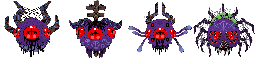
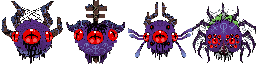
added mini boss and witness customization and adjusted static assets of mini bosses and witnesses

diff --git a/src/components/characters/CharacterNavigation.svelte b/src/components/characters/CharacterNavigation.svelte
@@ -1,6 +1,6 @@
 <script lang="ts" module>
     import { FOLLOWER_IDS, type FollowerId, PLAYER_CREATURE_IDS, PLAYER_FLEECE_IDS, type PlayerCreatureId, type PlayerFleeceId } from "../../data/types";
-    import { bishopData, followerData } from "../../data";
+    import { bishopData, followerData, miniBossData } from "../../data";
 
     const FOLLOWER_STARTING_NAMES: string[] = ["Ja", "Jul", "Na", "No", "Gre", "Bre", "Tre", "Mer", "Ty", "Ar", "An", "Yar", "Fe", "Fi", "The", "Thor", "Al", "Ha", "He", "Joo", "Ma", "Me", "Pa", "Pu"];
     const FOLLOWER_MIDDLE_NAMES: string[] = ["na"].concat(...FOLLOWER_STARTING_NAMES.slice(1, 11).map((name) => name.toLowerCase()));
@@ -73,10 +73,11 @@
     import { twMerge } from "tailwind-merge";
 
     import { BannerButton, Dropdown, Header, Label, LabelTitle, NumberInput, Slider, Toggle } from "../base";
+    import { BISHOP_MENU_NAME, MINI_BOSS_MENU_NAME, TOWW_MENU_NAME, WITNESS_MENU_NAME } from "./menus";
     import { MultiList } from "../utils";
 
     import { Actor, Factory, type ActorObject } from "../../scripts";
-    import { isBishopObj, isFollowerObj, isPlayerObj, isTOWW_Obj } from "../../scripts/characters";
+    import { isBishopObj, isFollowerObj, isMiniBossObj, isPlayerObj, isTOWW_Obj, isWitnessObj } from "../../scripts/characters";
 
     import { forbiddenAnimations } from "../../data";
     import { Random, Vector, type VectorObject } from "../../utils";
@@ -255,9 +256,13 @@
                     
                     <BannerButton label="Randomize" src="/static/ui/dice-6.png" onclick={randomizeAppearance} />
                 {:else if isBishopObj(obj)}
-                    <BannerButton label="Choose Bishop" onclick={() => proceed("bishop")} />
+                    <BannerButton label="Choose Bishop" onclick={() => proceed(BISHOP_MENU_NAME)} />
                 {:else if isTOWW_Obj(obj)}
-                    <BannerButton label="Choose Form" onclick={() => proceed("toww")} />
+                    <BannerButton label="Choose Form" onclick={() => proceed(TOWW_MENU_NAME)} />
+                {:else if isMiniBossObj(obj)}
+                    <BannerButton label="Choose Boss" onclick={() => proceed(MINI_BOSS_MENU_NAME)} />
+                {:else if isWitnessObj(obj)}
+                    <BannerButton label="Choose Witness" onclick={() => proceed(WITNESS_MENU_NAME)} />
                 {/if}
             {:else if i === 2}
                 <div class="flex flex-col gap-6 pt-6 pb-8" tabindex="-1">
@@ -311,6 +316,38 @@
                                         <Toggle label="Is Injured?" bind:enabled={obj.isInjured!} oninput={(isInjured) => actor.isInjured = isInjured} />
                                     </Label>
                                 {/if}
+                            </div>
+                        </div>
+                    {:else if isMiniBossObj(obj) && isMiniBossObj(actor)}
+                        <!-- svelte-ignore a11y_no_noninteractive_tabindex -->
+                        <div class="flex flex-col items-center gap-6" tabindex="0">
+                            <LabelTitle title="Attributes" />
+                        
+                            <div class="flex flex-col gap-8 items-center mx-8 w-80 sm:w-90">
+                                <Label label="Is Upgraded?">
+                                    <Toggle label="Is Upgraded?" bind:enabled={obj.isUpgraded} oninput={(isUpgraded) => actor.isUpgraded = isUpgraded} />
+                                </Label>
+
+                                {#if ["backSkins", "backUpgradedSkins"].every((key) => key in miniBossData[obj.miniBoss])}
+                                    <Label label="Is Facing the Back?">
+                                        <Toggle label="Is Facing the Back?" bind:enabled={obj.isBackFacing!} oninput={(isBackFacing) => actor.isBackFacing = isBackFacing} />
+                                    </Label>
+                                {/if}
+                            </div>
+                        </div>
+                    {:else if isWitnessObj(obj) && isWitnessObj(actor)}
+                        <!-- svelte-ignore a11y_no_noninteractive_tabindex -->
+                        <div class="flex flex-col items-center gap-6" tabindex="0">
+                            <LabelTitle title="Attributes" />
+                        
+                            <div class="flex flex-col gap-8 items-center mx-8 w-80 sm:w-90">
+                                <Label label="Is Upgraded?">
+                                    <Toggle label="Is Upgraded?" bind:enabled={obj.isUpgraded} oninput={(isUpgraded) => actor.isUpgraded = isUpgraded} />
+                                </Label>
+
+                                <Label label="Is Purged?">
+                                    <Toggle label="Is Purged?" bind:enabled={obj.isPurged} oninput={(isPurged) => actor.isPurged = isPurged} />
+                                </Label>
                             </div>
                         </div>
                     {/if}

diff --git a/src/App.svelte b/src/App.svelte
@@ -7,14 +7,14 @@
     import { SceneCanvas, Categories, LoadingThrobber, LoadingSymbol } from "./components/misc";
     import { List } from "./components/utils";
     
-    import { CharacterList, FollowerMenus, PlayerMenus, getRandomFollowerAppearance, getSpecialFollowerName, CharacterNavigation, isStrFollowerMenuName, isStrPlayerMenuName, BishopMenus, BISHOP_MENU_NAME, TOWW_MENU_NAME, TOWW_Menus } from "./components/characters";
+    import { CharacterList, FollowerMenus, PlayerMenus, getRandomFollowerAppearance, getSpecialFollowerName, CharacterNavigation, isStrFollowerMenuName, isStrPlayerMenuName, BishopMenus, BISHOP_MENU_NAME, TOWW_MENU_NAME, TOWW_Menus, MINI_BOSS_MENU_NAME, MiniBossMenu, WITNESS_MENU_NAME, WitnessMenu } from "./components/characters";
     import { Size, Timing } from "./components/exporting";
 
     import { News } from "./components/news";
     import { CreationDetails, SpecialThanks } from "./components/credits";
 
     import { Actor, Exporter, Factory, Scene, type ActorObject } from "./scripts";
-    import { Follower, isFollowerObj, isPlayerObj, TOWW, Player, Bishop, isBishopObj, isTOWW_Obj, MiniBoss, Witness } from "./scripts/characters";
+    import { Follower, isFollowerObj, isPlayerObj, TOWW, Player, Bishop, isBishopObj, isTOWW_Obj, MiniBoss, Witness, isMiniBossObj, isWitnessObj } from "./scripts/characters";
     import { GitManager } from "./scripts/managers";
 
     import { bishopData, miniBossData, towwData, witnessData } from "./data";
@@ -272,6 +272,10 @@
 
     function cloneActor(actor: Actor) {
         const clonedActor = actor.clone();
+
+        const { animation } = actor;
+        clonedActor.setAnimation(animation);
+
         addRawActor(clonedActor);
     }
     
@@ -410,6 +414,10 @@
                             <BishopMenus class="no-scrollbar lg:overflow-y-auto lg:pt-12 lg:pb-8 lg:w-160 lg:h-[calc(100%_-_68px)]" obj={actorObj} {factory} enableKeyInput={actorIdx >= 0 && showActorMenu} onupdate={updateSceneFromChanges} onchange={swapActor} />
                         {:else if isTOWW_Obj(actorObj) && actorMenu === TOWW_MENU_NAME}
                             <TOWW_Menus class="no-scrollbar lg:overflow-y-auto lg:pt-12 lg:pb-8 lg:w-160 lg:h-[calc(100%_-_68px)]" obj={actorObj} {factory} enableKeyInput={actorIdx >= 0 && showActorMenu} onupdate={updateSceneFromChanges} onchange={swapActor} />
+                        {:else if isMiniBossObj(actorObj) && actorMenu === MINI_BOSS_MENU_NAME}
+                            <MiniBossMenu class="no-scrollbar lg:overflow-y-auto lg:pt-12 lg:pb-8 lg:w-160 lg:h-[calc(100%_-_68px)]" obj={actorObj} {factory} enableKeyInput={actorIdx >= 0 && showActorMenu} onupdate={updateSceneFromChanges} onchange={swapActor} />
+                        {:else if isWitnessObj(actorObj) && actorMenu === WITNESS_MENU_NAME}
+                            <WitnessMenu class="no-scrollbar lg:overflow-y-auto lg:pt-12 lg:pb-8 lg:w-160 lg:h-[calc(100%_-_68px)]" witness={actor as Witness} obj={actorObj} enableKeyInput={actorIdx >= 0 && showActorMenu} onupdate={updateSceneFromChanges} />
                         {/if}
                     {/if}
                 </div>

diff --git a/src/components/characters/menus/MiniBossMenu.svelte b/src/components/characters/menus/MiniBossMenu.svelte
@@ -1,0 +1,77 @@
+<script lang="ts" module>
+    export const MINI_BOSS_MENU_NAME: string = "mini-boss";
+</script>
+
+<script lang="ts">
+    import { twMerge } from "tailwind-merge";
+
+    import { BoxOption } from "..";
+    import { Header } from "../../base";
+    import { MultiGrid, SpritesheetImage } from "../../utils";
+
+    import { miniBossData } from "../../../data";
+    import { miniBossIdsByCategory, type MiniBossCategoryName, type MiniBossData, type MiniBossId } from "../../../data/types";
+
+    import { Factory } from "../../../scripts";
+    import type { MiniBoss, MiniBossObject } from "../../../scripts/characters";
+
+    import { Random } from "../../../utils";
+    
+    interface Props {
+        obj: MiniBossObject;
+        factory: Factory;
+
+        class?: string;
+        enableKeyInput?: boolean;
+
+        onupdate?: VoidFunction;
+        onchange?: (miniboss: MiniBoss) => void;
+    }
+
+    let {
+        obj = $bindable(),
+        factory,
+
+        class: className,
+        enableKeyInput = false,
+
+        onupdate: update = () => {},
+        onchange: change = () => {}
+    }: Props = $props();
+
+    async function updateMiniBoss(miniBoss: MiniBossId) {
+        const { id, label, isUpgraded } = obj;
+
+        if (!factory.hasLoadedMiniBoss(miniBoss)) await factory.loadMiniBoss(miniBoss);
+        const boss = factory.miniBoss(miniBoss, isUpgraded, id, label);
+
+        obj.miniBoss = miniBoss;
+        boss.copyFromObj(obj);
+
+        const { animation } = miniBossData[miniBoss];
+
+        obj.animation = animation;
+        boss.setAnimation(animation);
+
+        update();
+        change(boss);
+    }
+</script>
+
+<div class={twMerge("flex flex-col gap-2 items-center w-full", className)}>
+    <Header title="Choose Mini Boss" />
+
+    <MultiGrid titles={Object.keys(miniBossIdsByCategory)} minColumns={4} maxColumns={6} tileWidth={64} tileHeight={64} gapWidth={20} gapHeight={12} {enableKeyInput} focusFirst>
+        {#snippet children(category, y)}
+            <BoxOption label="Select Random Mini Boss" hideBackground onclick={() => updateMiniBoss(Random.item(miniBossIdsByCategory[category as MiniBossCategoryName]))}>
+                <img src="/static/ui/dice-6.png" alt="" width="64" height="64" draggable="false" role="presentation" aria-hidden="true" />
+            </BoxOption>
+
+            {#each Object.values(miniBossIdsByCategory)[y].map<[MiniBossId, MiniBossData]>((id) => [id, miniBossData[id]]) as [id, { name }], x (id) }
+                <BoxOption label={name} selected={id === obj.miniBoss} onclick={() => updateMiniBoss(id as MiniBossId)}>
+                    <SpritesheetImage src="/static/assets/mini-bosses.png" label={name} class="m-1" {x} {y} tileWidth={64} tileHeight={64} width={56} height={56} />
+                </BoxOption>
+            {/each}
+        {/snippet}
+    </MultiGrid>
+</div>

diff --git a/src/components/characters/menus/WitnessMenu.svelte b/src/components/characters/menus/WitnessMenu.svelte
@@ -1,0 +1,61 @@
+<script lang="ts" module>
+    export const WITNESS_MENU_NAME: string = "witness";
+</script>
+
+<script lang="ts">
+    import { twMerge } from "tailwind-merge";
+
+    import { BoxOption } from "..";
+    import { Header } from "../../base";
+    import { Grid, SpritesheetImage } from "../../utils";
+
+    import { witnessData } from "../../../data";
+    import { WITNESS_IDS, type WitnessId } from "../../../data/types";
+
+    import type { Witness, WitnessObject } from "../../../scripts/characters";
+
+    import { Random } from "../../../utils";
+
+    interface Props {
+        witness: Witness;
+        obj: WitnessObject;
+
+        class?: string;
+        enableKeyInput?: boolean;
+
+        onupdate?: VoidFunction;
+    }
+
+    let {
+        witness,
+        obj,
+
+        class: className,
+        enableKeyInput = false,
+
+        onupdate: update = () => {}
+    }: Props = $props();
+
+    function updateWitness(id: WitnessId) {
+        witness.witness = id;
+        obj.witness = id;
+
+        update();
+    }
+</script>
+
+<div class={twMerge("flex flex-col gap-2 items-center w-full", className)}>
+    <Header title="Choose Witness" />
+
+    <Grid minColumns={4} maxColumns={6} tileWidth={64} tileHeight={64} gapWidth={20} gapHeight={12} {enableKeyInput} focusFirst>
+        <BoxOption label="Select Random Witness" hideBackground onclick={() => updateWitness(Random.item(WITNESS_IDS))}>
+            <img src="/static/ui/dice-6.png" alt="" width="64" height="64" draggable="false" role="presentation" aria-hidden="true" />
+        </BoxOption>
+
+        {#each Object.entries(witnessData) as [id, { name }], i (id) }
+            <BoxOption label={name} selected={id === obj.witness} onclick={() => updateWitness(id as WitnessId)}>
+                <SpritesheetImage src="/static/assets/witnesses.png" label={name} class="m-1" x={i} y={0} tileWidth={64} tileHeight={64} width={56} height={56} />
+            </BoxOption>
+        {/each}
+    </Grid>
+</div>

diff --git a/src/components/characters/menus/BishopMenus.svelte b/src/components/characters/menus/BishopMenus.svelte
@@ -39,18 +39,16 @@
         onchange: change = () => {}
     }: Props = $props();
 
-    async function updateBishop(id: BishopId) {
-        const { isBoss, label } = obj;
+    async function updateBishop(bishopId: BishopId) {
+        const { id, label, isBoss } = obj;
 
-        if (!factory.hasLoadedBishop(id, isBoss)) await factory.loadBishop(id, isBoss);
-        const bishop = factory.bishop(id, isBoss);
+        if (!factory.hasLoadedBishop(bishopId, isBoss)) await factory.loadBishop(bishopId, isBoss);
+        const bishop = factory.bishop(bishopId, isBoss, id, label);
 
-        obj.bishop = id;
-
+        obj.bishop = bishopId;
         bishop.copyFromObj(obj);
-        bishop.label = label;
 
-        const { animation, bossAnimation = animation } = bishopData[id];
+        const { animation, bossAnimation = animation } = bishopData[bishopId];
 
         obj.animation = isBoss ? bossAnimation : animation;
         bishop.setAnimation(isBoss ? bossAnimation : animation);

diff --git a/setup/generator/src/main.ts b/setup/generator/src/main.ts
@@ -240,6 +240,13 @@ miniBossExporter.addEventListener("click", () => {
         boss.setAnimation(animation);
 
         setupScene(boss);
+        if (["Flying Burp Frog", "Spiker", "Charger", "Scuttle Turret"].includes(id)) {
+            const isEligos = id === "Flying Burp Frog";
+
+            scene.scale *= 0.8 - 0.2 * +isEligos;
+            !isEligos && boss.pos.set(0, -60);
+        }
+
         appendPixelsToForm(form, id);
     }
 
@@ -255,6 +262,10 @@ witnessExporter.addEventListener("click", () => {
         witness.setAnimation("animation");
 
         setupScene(witness);
+        
+        scene.scale *= 0.9;
+        witness.pos.set(0, -40);
+
         appendPixelsToForm(form, id);
     }
 

diff --git a/src/components/characters/menus/FollowerMenus.svelte b/src/components/characters/menus/FollowerMenus.svelte
@@ -141,7 +141,7 @@
 <div class={twMerge("flex flex-col gap-2 items-center w-full", className)}>
     <Header {title} />
 
-    <MultiGrid titles={dividerTitles} minColumns={4} maxColumns={6} tileWidth={64} tileHeight={64} gapWidth={20} gapHeight={12} {enableKeyInput}>
+    <MultiGrid titles={dividerTitles} minColumns={4} maxColumns={6} tileWidth={64} tileHeight={64} gapWidth={20} gapHeight={12} {enableKeyInput} focusFirst>
         {#snippet children(category, y)}
             {#if menu === "form"}
                 <BoxOption label="Select Random {category} Form" hideBackground onclick={() => updateForm(Random.item(followerIdsByCategory[category as FollowerCategoryName]))}>

diff --git a/src/data/types/MiniBoss.ts b/src/data/types/MiniBoss.ts
@@ -17,7 +17,7 @@ export interface MiniBossData {
     animation: string;
 }
 
-export const MINI_BOSS_IDS: (keyof typeof miniBossData)[] = ["Mama Worm", "Mama Maggot", "Burrow Worm", "Flying Burp Frog", "Egg Hopper", "Mortar Hopper", "Spiker", "Charger", "Scuttle Turret", "Spider Jump", "Millipede Poisoner", "Scorpion"] as const;
+export const MINI_BOSS_IDS: (keyof typeof miniBossData)[] = ["Mama Worm", "Mama Maggot", "Burrow Worm", "Egg Hopper", "Flying Burp Frog", "Mortar Hopper", "Spiker", "Charger", "Scuttle Turret", "Spider Jump", "Millipede Poisoner", "Scorpion"] as const;
 export type MiniBossId = typeof MINI_BOSS_IDS[number];
 
 export enum MiniBossCategory {

diff --git a/src/components/characters/menus/index.ts b/src/components/characters/menus/index.ts
@@ -4,10 +4,16 @@ import PlayerMenus from "./PlayerMenus.svelte";
 import BishopMenus from "./BishopMenus.svelte";
 import TOWW_Menus from "./TOWW_Menus.svelte";
 
-export { FollowerMenus, PlayerMenus, BishopMenus, TOWW_Menus };
+import MiniBossMenu from "./MiniBossMenu.svelte";
+import WitnessMenu from "./WitnessMenu.svelte";
+
+export { FollowerMenus, PlayerMenus, BishopMenus, TOWW_Menus, MiniBossMenu, WitnessMenu };
 
 export * from "./FollowerMenus.svelte";
 export * from "./PlayerMenus.svelte";
 
 export * from "./BishopMenus.svelte";
 export * from "./TOWW_Menus.svelte";
+
+export * from "./MiniBossMenu.svelte";
+export * from "./WitnessMenu.svelte";

diff --git a/src/components/characters/menus/TOWW_Menus.svelte b/src/components/characters/menus/TOWW_Menus.svelte
@@ -40,15 +40,13 @@
     }: Props = $props();
 
     async function updateTOWW(form: TOWW_Id) {
-        const { label } = obj;
+        const { id, label } = obj;
 
         if (!factory.hasLoadedTOWW(form)) await factory.loadTOWW(form);
-        const toww = factory.TOWW(form);
+        const toww = factory.TOWW(form, id, label);
 
         obj.form = form;
-
         toww.copyFromObj(obj);
-        toww.label = label;
 
         const { attributes, animation } = towwData[form];
 

diff --git a/src/scripts/Actor.ts b/src/scripts/Actor.ts
@@ -105,15 +105,13 @@ export class Actor implements ActorObject {
     }
 
     copyFromObj(obj: ActorObject) {
-        const { pos, scale, hidden, flipX, animation } = obj;
+        const { pos, scale, hidden, flipX } = obj;
         
         this.pos.copyObj(pos);
         this.scale.copyObj(scale);
 
         this.hidden = hidden;
         this.flipX = flipX;
-
-        this.setAnimation(animation);
     }
 
     toObj(): ActorObject {

diff --git a/src/scripts/characters/bosses/MiniBoss.ts b/src/scripts/characters/bosses/MiniBoss.ts
@@ -57,9 +57,9 @@ export class MiniBoss extends Actor implements MiniBossObject {
 
         const [firstSkin, ...additionalSkins] = 
             isBackFacing
-                ? isUpgraded
+                ? [...(isUpgraded
                     ? backUpgradedSkins
-                    : backSkins
+                    : backSkins)].reverse()
                 : isUpgraded
                     ? upgradedSkins
                     : skins;
